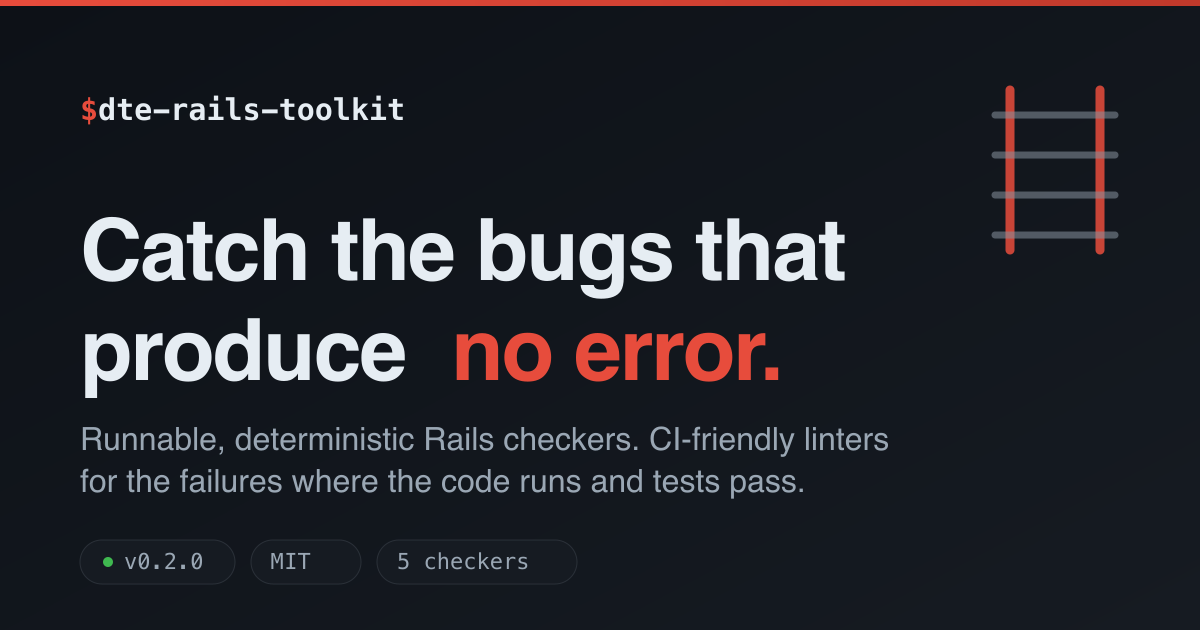
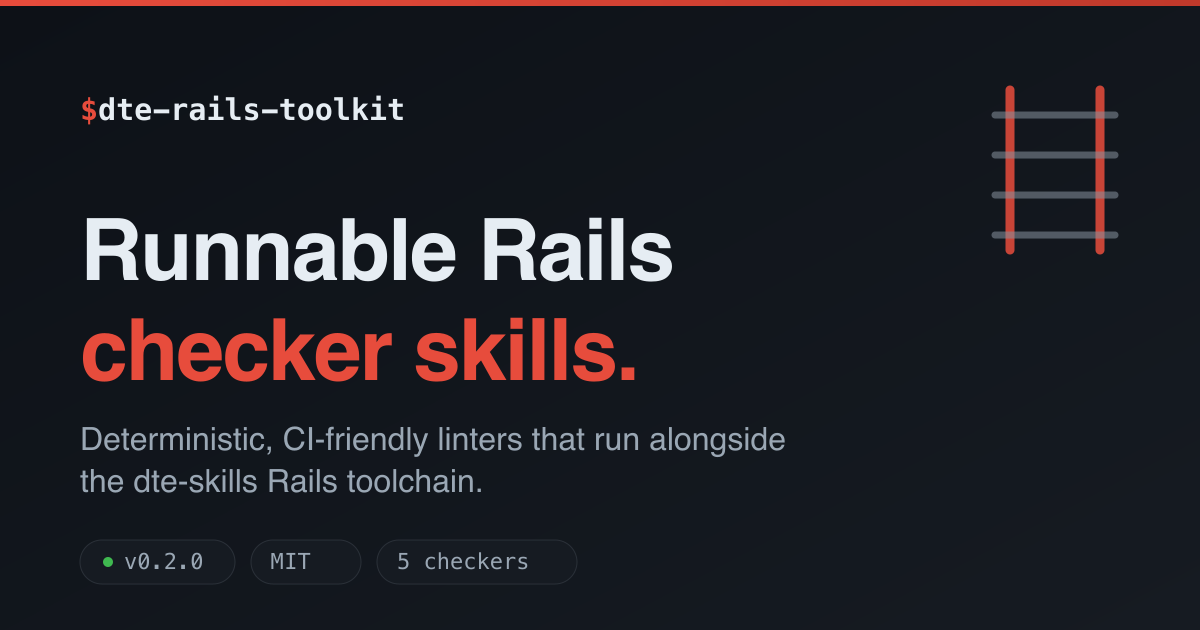
copy: rewrite hero to state what it is (not the 'no error' tagline)
Hero now plainly describes the project — a collection of runnable Rails
checker skills that run alongside the dte-skills toolchain — instead of
the 'catch the bugs that produce no error' framing. Update OG card +
meta descriptions to match.

diff --git a/docs/index.html b/docs/index.html
@@ -4,9 +4,9 @@
 <meta charset="UTF-8">
 <meta name="viewport" content="width=device-width, initial-scale=1.0">
 <title>dte-rails-toolkit — deterministic Rails checkers</title>
-<meta name="description" content="A toolkit of runnable, deterministic Rails checkers — CI-friendly linters that catch the failures that produce no error.">
+<meta name="description" content="A collection of runnable, deterministic Rails checker skills — CI-friendly linters that run alongside the dte-skills toolchain.">
 <meta property="og:title" content="dte-rails-toolkit">
-<meta property="og:description" content="Runnable, deterministic Rails checkers — linters that catch the failures that produce no error.">
+<meta property="og:description" content="A collection of runnable, deterministic Rails checker skills — CI-friendly linters that run alongside the dte-skills toolchain.">
 <meta property="og:type" content="website">
 <meta property="og:url" content="https://davidteren.github.io/dte-rails-toolkit/">
 <meta property="og:image" content="https://davidteren.github.io/dte-rails-toolkit/og.png">
@@ -14,7 +14,7 @@
 <meta property="og:image:height" content="630">
 <meta name="twitter:card" content="summary_large_image">
 <meta name="twitter:title" content="dte-rails-toolkit">
-<meta name="twitter:description" content="Runnable, deterministic Rails checkers — linters that catch the failures that produce no error.">
+<meta name="twitter:description" content="A collection of runnable, deterministic Rails checker skills — CI-friendly linters that run alongside the dte-skills toolchain.">
 <meta name="twitter:image" content="https://davidteren.github.io/dte-rails-toolkit/og.png">
 <link rel="icon" type="image/svg+xml" href="favicon.svg">
 <link rel="icon" type="image/png" sizes="180x180" href="favicon.png">
@@ -48,7 +48,7 @@
   a { color: var(--accent); text-decoration: none; }
   a:hover { text-decoration: underline; }
   /* links sitting inside text need a non-color cue (a11y) */
-  .sub a, footer .frow a { text-decoration: underline; text-underline-offset: 2px; }
+  .sub a, .lede a, footer .frow a { text-decoration: underline; text-underline-offset: 2px; }
   :focus-visible { outline: 2px solid var(--accent); outline-offset: 2px; border-radius: 4px; }
   .wrap { max-width: var(--maxw); margin: 0 auto; padding: 0 1.25rem; }
 
@@ -164,8 +164,8 @@
   <div class="wrap">
     <section class="hero">
       <span class="tag"><span class="dot" aria-hidden="true"></span> v0.2.0 · public · MIT</span>
-      <h1>Catch the bugs that<br>produce <span class="accent">no error.</span></h1>
-      <p class="lede">Runnable, deterministic Rails checkers. CI-friendly linters for the failures where the code runs, the tests pass, and something is <span class="em">just quietly wrong</span>.</p>
+      <h1>Runnable Rails<br><span class="accent">checker skills.</span></h1>
+      <p class="lede">A collection of deterministic, CI-friendly linters that run alongside the <a href="https://github.com/davidteren/dte-skills">dte-skills</a> toolchain — fast, exact checks you can gate in CI.</p>
       <div class="cta">
         <a class="btn btn-primary" href="#install">Install</a>
         <a class="btn btn-ghost" href="https://github.com/davidteren/dte-rails-toolkit">View on GitHub</a>